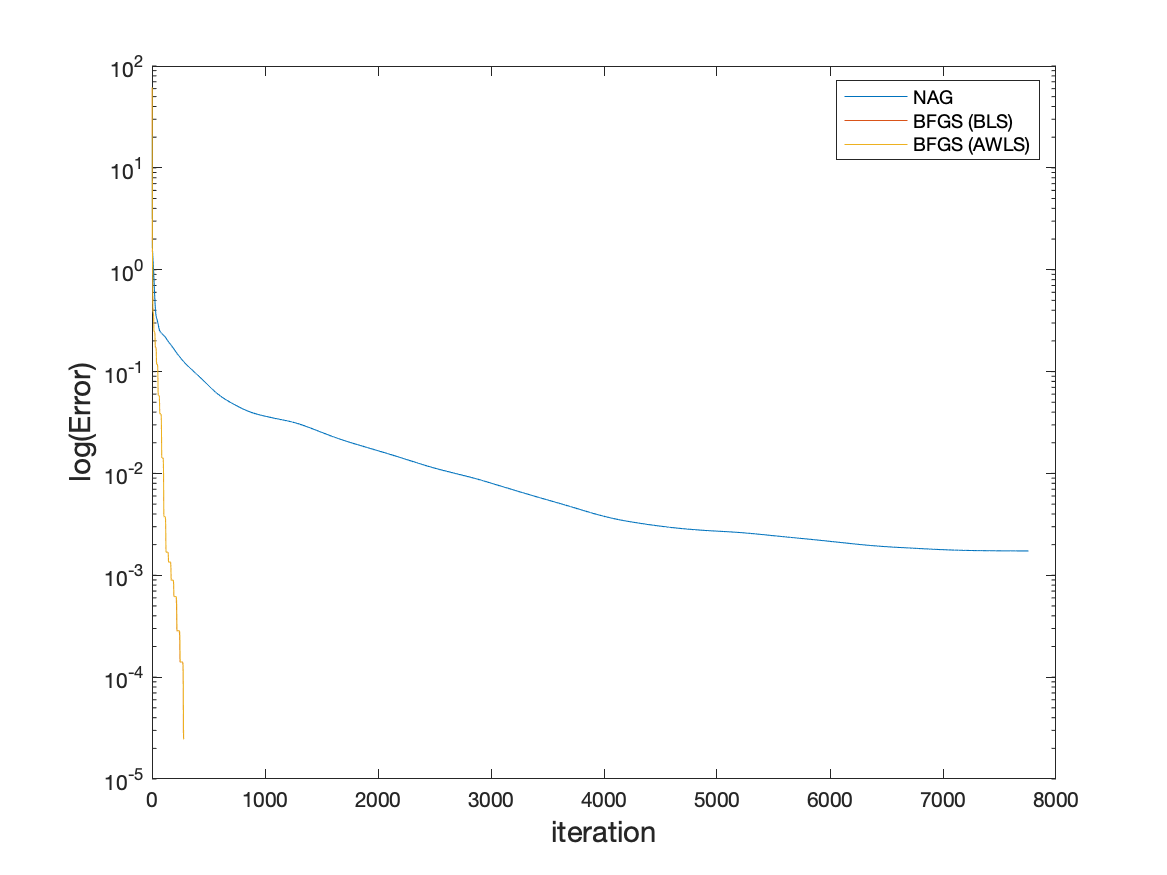
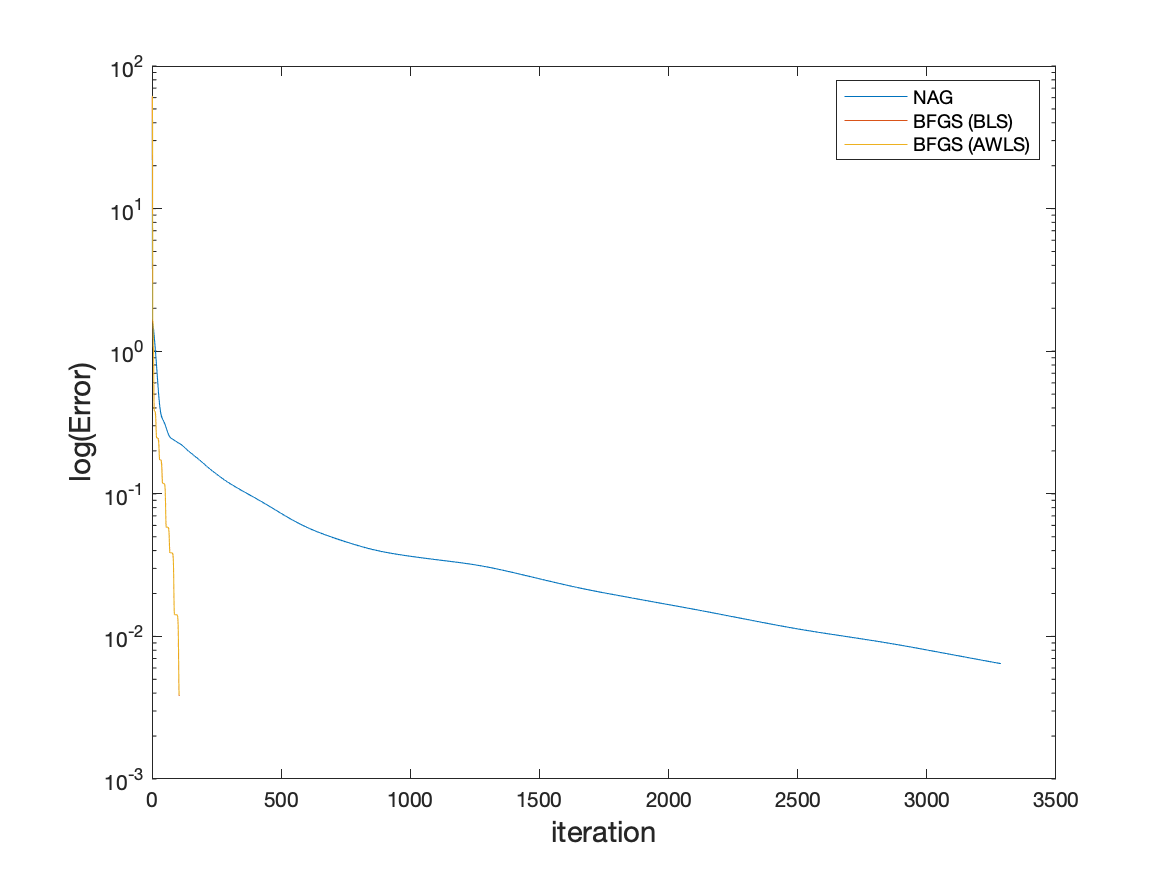
test on lambda effect on sin(x)

diff --git a/test_sin_lambda.m b/test_sin_lambda.m
@@ -1,0 +1,172 @@
+rng(1);
+
+f   = @tanh;
+eps = 1e-7;
+
+% ---------------- sin(x) experiments ------------------ %
+
+[X, T_Noise, T_Real] = create_sin_dataset(0, 10, 100, 0.5);
+
+n = size(X,2);
+m = size(T_Noise,2);
+N = size(X,1);
+h = N;
+
+% transposes to make them easier
+X = X';
+T_Noise = T_Noise';
+T_Real = T_Real';
+
+[W, b, beta] = create_elm(n, h, m);
+
+%[~, ~, lambda] = grid_search(@NAG, @ObjectiveFunc, X, T_Noise, f, eps, N, W, b, beta, X, T_Real);
+
+%fprintf('best lambda = %d\n', lambda)
+
+lambda = 1;
+
+%plot_sin(X, T_Noise, T_Real, [], [], [], [], f, W, b, N, 'Plots/sin_noise_data.png')
+
+[beta_opt, opt_val, opt_val_grad] = true_solution(X, T_Noise, W, b, f, N, h, m, lambda);
+fprintf('true solution MSE = %d\n', opt_val)
+
+%plot_sin(X, T_Noise, T_Real, beta_opt, [], [], [], f, W, b, N, 'Plots/sin_noise_nolambda_effect.png')
+
+
+%eta = compute_eta(f, W, b, X, T_Noise, N, lambda);
+%[beta_nag, errors_nag] = NAG(@ObjectiveFunc, beta, eps, eta, lambda, N, X, T_Noise, W, b, f, false, intmax, intmax);
+
+%[v, ~] = ObjectiveFunc(beta_nag, X, T_Real, W, b, N, f, lambda);
+
+%fprintf('NAG\n')
+%fprintf('MSE noise = %d\n', errors_nag(length(errors_nag)))
+%fprintf('MSE real = %d\n', v)
+%fprintf('#iter = %d\n', length(errors_nag))
+
+%plot_sin(X, T_Noise, T_Real, [], beta_nag, [], [], f, W, b, N, '')
+
+B = eye(h*m);
+[beta_bfgs_bls, errors_bfgs_bls] = BFGS(@ObjectiveFunc, beta, B, eps, h, m, W, b, f, X, T_Noise, lambda, N, 'BLS', false);
+
+[v, ~] = ObjectiveFunc(beta_bfgs_bls, X, T_Real, W, b, N, f, lambda);
+
+fprintf('\nBFGS (BLS) \n')
+fprintf('MSE noise = %d\n', errors_bfgs_bls(length(errors_bfgs_bls)))
+fprintf('MSE real = %d\n', v)
+fprintf('#iter = %d\n', length(errors_bfgs_bls))
+
+
+%B = eye(h*m);
+%[beta_bfgs_awls, errors_bfgs_awls] = BFGS(@ObjectiveFunc, beta, B, eps, h, m, W, b, f, X, T_Noise, lambda, N, 'AWLS', false);
+
+%[v, ~] = ObjectiveFunc(beta_bfgs_awls, X, T_Real, W, b, N, f, lambda);
+
+%fprintf('\nBFGS (AWLS) \n')
+%fprintf('MSE noise = %d\n', errors_bfgs_awls(length(errors_bfgs_awls)))
+%fprintf('MSE real = %d\n', v)
+%fprintf('#iter = %d\n', length(errors_bfgs_awls))
+
+
+plot_sin(X, T_Noise, T_Real, [], [], beta_bfgs_bls, [], f, W, b, N, '')
+
+% ------------------------------------------------------ % 
+
+function [elm_out] = out(f, W, b, beta, x)
+    elm_out = beta' * f(W * x + b);
+end
+
+function [eta] = compute_eta(f, W, b, X, T, N, lambda)
+    hessian = 0;
+    for i = 1:N
+        x = X(:,i);
+        t = T(:,i);
+        hidden_out = f(W * x + b);
+        hessian = hessian + (hidden_out * hidden_out');
+    end
+    hessian = 2/N * (hessian + lambda);
+    eta = 1/norm(hessian);
+end
+
+% n = input dimension
+% h = number of hidden units
+% m = output dimension
+function [W, b, beta] = create_elm(n, h, m)
+    W    = randn(h, n);
+    b    = randn(h, 1);
+    beta = randn(h, m);
+end
+
+% define N_samples points of the form (x, sin(x) +- noise)
+function [X, T_Noise, T_Real] = create_sin_dataset(min_x, max_x, N_samples, noise)
+    X       = zeros(N_samples, 1);
+    T_Noise = zeros(N_samples, 1);
+    T_Real  = zeros(N_samples, 1);
+    c       = 1;
+    
+    for i = min_x:(max_x - min_x)/N_samples:max_x
+        X(c) = i;
+        % noise = 0.5 => sin(x) \in (-1.5, 1.5)
+        min_noise  = -noise;
+        max_noise  = noise;
+        correction = min_noise + rand * (max_noise - min_noise);
+        T_Noise(c) = sin(i) + correction;
+        T_Real(c)  = sin(i);
+        c = c + 1;
+    end
+end
+
+function [Y] = predict_sin(X, beta, f, W, b, N)
+    Y = [];
+    for i = 1:N
+       Y = [Y, out(f, W, b, beta, X(:, i))]; 
+    end
+end
+
+function plot_sin(X, T_Noise, T_Real, beta_opt, beta_nag, beta_bfgs_bls, beta_bfgs_awls, f, W, b, N, saveto)
+    figure
+    legends = ["sin(x)"];
+    scatter(X, T_Noise)
+    xlabel('x', 'FontSize', 14)
+    ylabel('sin(x)', 'FontSize', 14)
+    
+    if isempty(T_Real) == false
+        hold on
+        scatter(X, T_Real)
+        legends = [legends, "sin(x) without noise"];
+    end
+    
+    
+    if isempty(beta_opt) == false
+        hold on
+        Y = predict_sin(X, beta_opt, f, W, b, N);
+        legends = [legends, "True Solution"];
+        plot(X, Y)
+    end
+    
+    if isempty(beta_nag) == false
+        hold on
+        Y = predict_sin(X, beta_nag, f, W, b, N);
+        legends = [legends, "NAG"];
+        plot(X, Y)
+    end
+    
+    if isempty(beta_bfgs_bls) == false
+        hold on
+        Y = predict_sin(X, beta_bfgs_bls, f, W, b, N);
+        legends = [legends, "BFGS (BLS)"];
+        plot(X, Y)
+    end
+    
+    if isempty(beta_bfgs_awls) == false
+        hold on
+        Y = predict_sin(X, beta_bfgs_awls, f, W, b, N);
+        legends = [legends, "BFGS (AWLS)"];
+        plot(X, Y)
+    end
+    
+    legend(legends, 'Location', 'southwest')
+    
+    if isempty(saveto) == false
+       saveas(gcf, saveto) 
+    end
+end

diff --git a/sin_nag_bfgs_times.m b/sin_nag_bfgs_times.m
@@ -24,14 +24,15 @@ bfgs_awls_times = (0);
 bfgs_bls_times = (0);
 
 iter = 1;
-h_min = 100;
-h_max = 200;
-step = 10;
+h_min = 101;
+h_max = 101;
+step = 1;
 
 for h = h_min:step:h_max
-    beta = randn(h,m);      % randomly initialized beta
     W = randn(h,n);         % weight between input and hidden layer
     b = randn(h,1);         % bias of hidden nodes
+    beta = randn(h,m);      % randomly initialized beta
+    
     
     hessian = 0;
     for i = 1:N
@@ -44,7 +45,7 @@ for h = h_min:step:h_max
     eta = 1/norm(hessian);
     
     % Try k times and then take avg
-    k = 30;
+    k = 100;
     
     % --- Time NAG
     ticStart = tic;
@@ -53,7 +54,11 @@ for h = h_min:step:h_max
     end
     tEnd = toc(ticStart);
     
-    nag_times(iter) = tEnd / k;
+    fprintf('\n-- NAG --\n')
+    fprintf('#iter = %d\n', length(errors_nag))
+    fprintf('final error = %d\n', errors_nag(length(errors_nag)))
+    fprintf('time/iter = %d\n', (tEnd / k) / length(errors_nag))
+    nag_times(iter) = (tEnd / k) / length(errors_nag);
     
     % --- Time BFGS (BLS)
     B = eye(h*m);
@@ -62,8 +67,14 @@ for h = h_min:step:h_max
         [beta_bfgs_bls, errors_bfgs_bls] = BFGS(@ObjectiveFunc, beta, B, eps, h, m, W, b, f, X, T, lambda, N, 'BLS', false);
     end
     tEnd = toc(ticStart);
-    
-    bfgs_bls_times(iter) = tEnd / k;
+    %check if this is greater than 1/10s to get accuracy, otherwise
+    %increase k
+    %fprintf('time = %d\n', (tEnd))
+    bfgs_bls_times(iter) = (tEnd / k) / length(errors_bfgs_bls);
+    fprintf('\n-- BLS --\n')
+    fprintf('#iter = %d\n', length(errors_bfgs_bls))
+    fprintf('final error = %d\n', errors_bfgs_bls(length(errors_bfgs_bls)))
+    fprintf('time/iter = %d\n', (tEnd / k) / length(errors_bfgs_bls))
     
     % --- Time BFGS (AWLS)
     B = eye(h*m);
@@ -73,12 +84,18 @@ for h = h_min:step:h_max
     end
     tEnd = toc(ticStart);
     
-    bfgs_awls_times(iter) = tEnd / k;
+    bfgs_awls_times(iter) = (tEnd / k) / length(errors_bfgs_awls);
+    fprintf('\n-- AWLS --\n')
+    fprintf('#iter = %d\n', length(errors_bfgs_awls))
+    fprintf('final error = %d\n', errors_bfgs_awls(length(errors_bfgs_awls)))
+    fprintf('time/iter = %d\n', (tEnd / k) / length(errors_bfgs_awls))
     
     fprintf('%d/%d\n', step*(iter-1), h_max-h_min)
     
     iter = iter + 1;
 end
+
+return
 
 plot(h_min:step:h_max, nag_times, h_min:step:h_max, bfgs_bls_times, h_min:step:h_max, bfgs_awls_times)
 legend('NAG', 'BFGS (BLS)', 'BFGS (AWLS)')

diff --git a/general_sin_test.m b/general_sin_test.m
@@ -1,11 +1,13 @@
 rng(1);                 % seed to make random values repeatable
 
-X = zeros(100, 1);
-T = zeros(100, 1);
+N_samples = 100;
+
+X = zeros(N_samples, 1);
+T = zeros(N_samples, 1);
 c = 1;
-for i = 0:0.1:10
+for i = 0:10/N_samples:10
     X(c) = i;
-    T(c) = sin(i); %+ (rand - 0.5)/3;
+    T(c) = sin(i);
     c = c + 1;
 end
 
@@ -20,7 +22,7 @@ eps = 1e-6;
 n = size(X,2);          % input dimension
 m = size(T,2);          % output dimension
 N = size(X,1);          % number of samples
-h = N;                        % number of hidden units  
+h = N*3;                        % number of hidden units  
 W = randn(h,n);         % weight between input and hidden layer
 b = randn(h,1);         % bias of hidden nodes
 X = X';                 % transpose to make it easier
@@ -44,7 +46,7 @@ end
 hessian = 2/N * (hessian + lambda);
 eta = 1/norm(hessian)
 
-[beta_nag, errors_nag] = NAG(@ObjectiveFunc, beta, eps, eta, lambda, N, X, T, W, b, f, true, intmax, 0);
+[beta_nag, errors_nag] = NAG(@ObjectiveFunc, beta, 1e-3, eta, lambda, N, X, T, W, b, f, true, intmax, intmax);
 fprintf('MSE = %d\n', errors_nag(length(errors_nag)));
 
 
@@ -102,7 +104,10 @@ legend('Training Data', 'Real Solution', 'NAG', 'BFGS (BLS)', 'BFGS (AWLS)')
 
 %saveas(gcf, 'Plots/e10-1_h100_sin_prediction_vs_training_data.png')
 %saveas(gcf, 'Plots/e10-3_h100_sin_prediction_vs_training_data.png')
-saveas(gcf, 'Plots/e10-6_h100_sin_prediction_vs_training_data.png')
+%saveas(gcf, 'Plots/e10-6_h100_sin_prediction_vs_training_data.png')
+
+
+return
 
 % --- Plot log convergence
 errors_nag = errors_nag - opt_val;

diff --git a/grid_search.m b/grid_search.m
@@ -1,6 +1,6 @@
 function [best_beta, best_errors, lambda] = grid_search(Optimizer, Error, X, T, f, eps, N, W, b, beta, X_test, T_test)
     min_lambda = 0;
-    max_lambda = 0.01;
+    max_lambda = 1e-6;
     
     samples = 10;
 
@@ -24,22 +24,20 @@ function [best_beta, best_errors, lambda] = grid_search(Optimizer, Error, X, T, 
 
         eta = 1/norm(hessian);
 
-        [beta_nag, errs] = Optimizer(Error, beta, eps, eta, l, N, X, T, W, b, f, false, 2000, 5);
+        [beta_nag, errs] = Optimizer(Error, beta, eps, eta, l, N, X, T, W, b, f, false, intmax, intmax);
 
         if (isempty(X_test))
             [e, ~] = Error(beta_nag, X, T, W, b, N, f, l);
         else
             [e, ~] = Error(beta_nag, X_test, T_test, W, b, size(X_test,2), f, l);
         end
-
-        fprintf('%d\t%d\n', l, e)
-
+        
         % if good then save hyperparameter conf.
         if e < best_error
             best_error = e
             best_beta = beta_nag;
             best_errors = errs;
-            lambda = l;
+            lambda = l
         end
     end
     

diff --git a/general_monk.m b/general_monk.m
@@ -1,7 +1,7 @@
 % --- parameter
 filename = 'data/monk1-train.txt';
 f = @tanh;              % hidden activation function
-h = 124;                % number of hidden units
+h = 122;                % number of hidden units
 eps = 1e-6;
 % --- end of parameter
 
